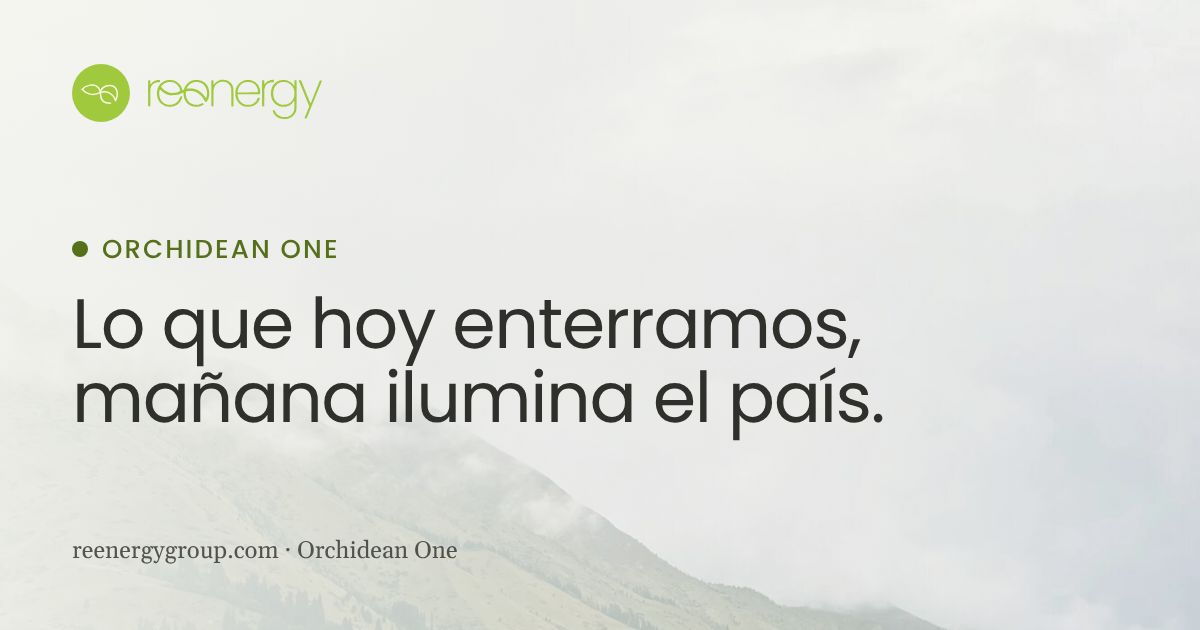
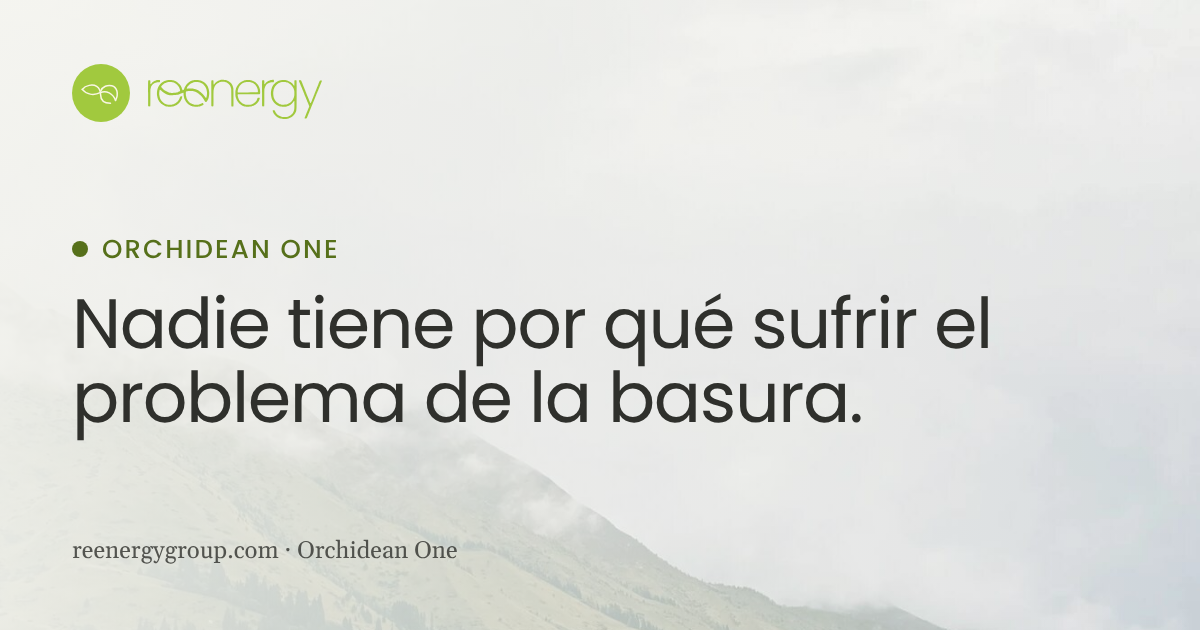
New headline and one-minute copy; say energy, never electricity
- Home headline: "Nadie tiene por qué sufrir el problema de la basura." with
  the client's lead about ReEnergy's Waste to Energy solution; footer
  tagline and home share image match
- One-minute page slides rewritten with the client's copy (8/10 buried,
  landfills full; 20 MW of energy; starts in Alajuela and Cartago;
  creates energy, cleans gases, always publishes readings; 3,000 plants;
  a better future for the country)
- "electricidad" and "luz" replaced with "energía" site-wide (ES/EN)
- Removed everything touching the electricity-market debate: the
  "power that doesn't depend on rain" benefit (ICE, 2024 rationing),
  the electricity-bill FAQ, the grid-security paragraph on the
  municipalities page, and "national grid" wording
- Regenerated home and plant share images

Claude-Session: https://claude.ai/code/session_01NHVr3oF4Vonvum5zsEUbdN

Changed region(s): [[0.0617, 0.4524, 0.8325, 0.6937]]

diff --git a/reenergy/src/data/faq.ts b/reenergy/src/data/faq.ts
@@ -1,6 +1,6 @@
 /**
  * Preguntas frecuentes. Tono: claro, corto, sin evasivas. En un tema político, una respuesta
- * honesta convence más que una promesa: no prometemos “cero emisiones” ni “luz más barata”.
+ * honesta convence más que una promesa: no prometemos “cero emisiones” ni tarifas más bajas.
  * `home: true` = aparece en la portada.
  * ⚠ Las respuestas marcadas [VERIFICAR] en comentarios dependen de decisiones del proyecto.
  */
@@ -40,7 +40,7 @@ export const FAQ: { es: Item[]; en: Item[] } = {
     {
       home: true,
       q: '¿Dónde se va a construir?',
-      a: `<p>La primera planta, Orchidean One, será en <strong>${PROJECT.firstSite}</strong>; la segunda, en <strong>${PROJECT.secondSite}</strong>. El terreno exacto se define con estudios técnicos y consulta pública: <strong>zona industrial o compatible</strong> según el plan regulador, lejos de casas, fuera de áreas protegidas y de zonas de recarga de acuíferos, cerca de carreteras principales y de una subestación eléctrica. <a href="${ROUTES.build.es}">Vea los criterios y los plazos</a>.</p>`,
+      a: `<p>La primera planta, Orchidean One, será en <strong>${PROJECT.firstSite}</strong>; la segunda, en <strong>${PROJECT.secondSite}</strong>. El terreno exacto se define con estudios técnicos y consulta pública: <strong>zona industrial o compatible</strong> según el plan regulador, lejos de casas, fuera de áreas protegidas y de zonas de recarga de acuíferos, cerca de carreteras principales y de una subestación. <a href="${ROUTES.build.es}">Vea los criterios y los plazos</a>.</p>`,
     },
     {
       q: '¿Cuánto tarda en construirse?',
@@ -61,10 +61,6 @@ export const FAQ: { es: Item[]; en: Item[] } = {
     {
       q: '¿Qué pasa con la ceniza?',
       a: `<p>La basura se reduce a cerca de una décima parte de su volumen. Los metales se recuperan para reciclar. La ceniza de fondo puede reutilizarse en obras (Dinamarca reutiliza casi toda la suya). La ceniza fina de los filtros —una porción pequeña— se maneja bajo el control del Ministerio de Salud.</p>`,
-    },
-    {
-      q: '¿Va a bajar el recibo de la luz?',
-      a: `<p>No le vamos a prometer eso: las tarifas las fija ARESEP. Lo que sí aporta Orchidean One es <strong>energía firme</strong>, que se produce todos los días, llueva o no. En 2024 hubo racionamientos y el país gastó cientos de millones de dólares en combustibles e importaciones de electricidad. Cada megavatio que no depende de la lluvia ayuda.</p>`,
     },
     {
       q: '¿Quién paga la planta?',
@@ -114,7 +110,7 @@ export const FAQ: { es: Item[]; en: Item[] } = {
     {
       home: true,
       q: 'Where will it be built?',
-      a: `<p>The first plant, Orchidean One, will be in <strong>${PROJECT.firstSite}</strong>; the second, in <strong>${PROJECT.secondSite}</strong>. The exact site is chosen through technical studies and public consultation: an <strong>industrial or compatible zone</strong> under the local zoning plan, away from homes, outside protected areas and aquifer recharge zones, close to main highways and an electrical substation. <a href="${ROUTES.build.en}">See the criteria and timeline</a>.</p>`,
+      a: `<p>The first plant, Orchidean One, will be in <strong>${PROJECT.firstSite}</strong>; the second, in <strong>${PROJECT.secondSite}</strong>. The exact site is chosen through technical studies and public consultation: an <strong>industrial or compatible zone</strong> under the local zoning plan, away from homes, outside protected areas and aquifer recharge zones, close to main highways and a substation. <a href="${ROUTES.build.en}">See the criteria and timeline</a>.</p>`,
     },
     {
       q: 'How long does it take to build?',
@@ -135,10 +131,6 @@ export const FAQ: { es: Item[]; en: Item[] } = {
     {
       q: 'What happens to the ash?',
       a: `<p>Trash shrinks to about a tenth of its volume. Metals are recovered for recycling. Bottom ash can be reused in construction (Denmark reuses nearly all of its own). The fine ash from the filters — a small share — is handled under Ministry of Health oversight.</p>`,
-    },
-    {
-      q: 'Will my electricity bill go down?',
-      a: `<p>We won’t promise that: rates are set by the regulator, ARESEP. What Orchidean One does provide is <strong>firm power</strong>, produced every day, rain or shine. In 2024 there were blackouts and the country spent hundreds of millions of dollars on fuel and electricity imports. Every megawatt that doesn’t depend on rain helps.</p>`,
     },
     {
       q: 'Who pays for the plant?',

diff --git a/reenergy/src/lib/i18n.ts b/reenergy/src/lib/i18n.ts
@@ -70,7 +70,7 @@ export const UI = {
     sources: 'Fuentes',
     breadcrumbHome: 'Inicio',
     footer: {
-      tagline: 'Lo que hoy enterramos, mañana ilumina el país.',
+      tagline: 'Nadie tiene por qué sufrir el problema de la basura.',
       explore: 'Entienda el proyecto',
       forWhom: 'Para',
       contact: 'Contacto',
@@ -115,7 +115,7 @@ export const UI = {
     sources: 'Sources',
     breadcrumbHome: 'Home',
     footer: {
-      tagline: 'What we bury today can power the country tomorrow.',
+      tagline: 'No one should have to suffer the trash problem.',
       explore: 'Understand the project',
       forWhom: 'For',
       contact: 'Contact',
